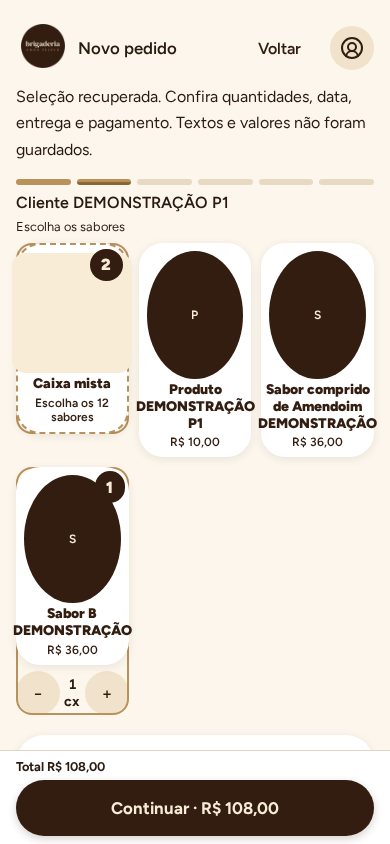
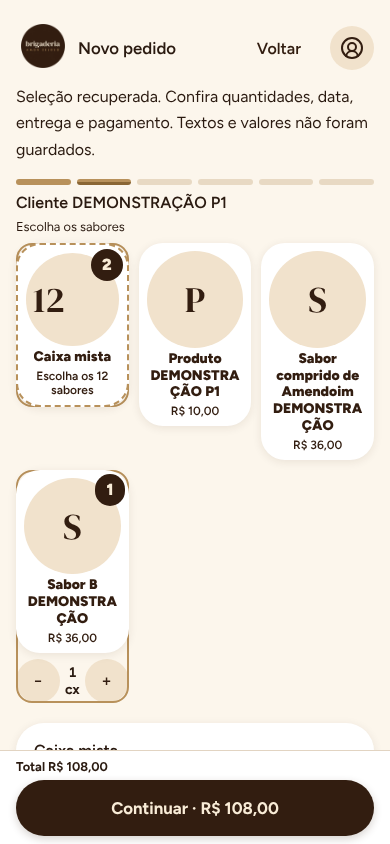
T10: sabores sem foto viram círculo e nomes longos ficam dentro do cartão
Caixa mista sem fotos mostra a capacidade no lugar do mosaico vazio.
Capturas de sabores e retomada atualizadas.

Claude-Session: https://claude.ai/code/session_0141B4PnNJ4Mzj7mcUbY7h2t

diff --git a/src/features/mobile/Totem.tsx b/src/features/mobile/Totem.tsx
@@ -1169,14 +1169,24 @@ export function Totem({
                     aria-label="Montar caixa mista com sabores variados"
                     onClick={() => setMixDraft({ comp: {}, qty: 1 })}
                   >
-                    <span className="mix-mosaic" aria-hidden="true">
-                      {mixOptions
-                        .filter((v) => v.photo_key)
-                        .slice(0, 4)
-                        .map((v) => (
-                          <img key={v.id} src={photoURL(v.photo_key!)} alt="" />
-                        ))}
-                    </span>
+                    {mixOptions.some((v) => v.photo_key) ? (
+                      <span className="mix-mosaic" aria-hidden="true">
+                        {mixOptions
+                          .filter((v) => v.photo_key)
+                          .slice(0, 4)
+                          .map((v) => (
+                            <img
+                              key={v.id}
+                              src={photoURL(v.photo_key!)}
+                              alt=""
+                            />
+                          ))}
+                      </span>
+                    ) : (
+                      <span className="mix-mosaic no-photos" aria-hidden="true">
+                        {capacity}
+                      </span>
+                    )}
                     <strong>Caixa mista</strong>
                     <span className="mix-card-hint">
                       Escolha os {capacity} sabores

diff --git a/src/theme.css b/src/theme.css
@@ -1476,3 +1476,33 @@ textarea::placeholder {
     grid-template-columns: repeat(2, minmax(0, 1fr));
   }
 }
+
+/* Sabores sem foto: círculo do mesmo tamanho das fotos, nunca oval. */
+.order-focus .flavor-card .flavor-placeholder {
+  width: min(8rem, 100%);
+  height: auto;
+  aspect-ratio: 1;
+  background: var(--az-tonal);
+  color: var(--az-choc);
+  font-family: var(--az-serif);
+  font-size: 2.25rem;
+}
+/* Nomes longos quebram dentro do cartão, sem passar da borda. */
+.order-focus .flavor-card .flavor-name,
+.order-focus .flavor-card .flavor-name strong {
+  min-width: 0;
+  max-width: 100%;
+  overflow-wrap: break-word;
+}
+/* Caixa mista sem fotos disponíveis: círculo com a capacidade da caixa. */
+.flavor-card .mix-mosaic.no-photos {
+  display: grid;
+  place-items: center;
+  width: min(8rem, 100%);
+  height: auto;
+  aspect-ratio: 1;
+  border-radius: 50%;
+  background: var(--az-tonal);
+  color: var(--az-choc);
+  font: 2.25rem var(--az-serif);
+}
